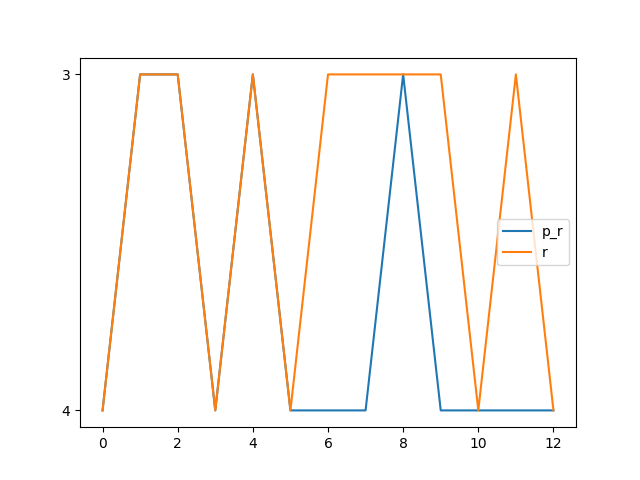
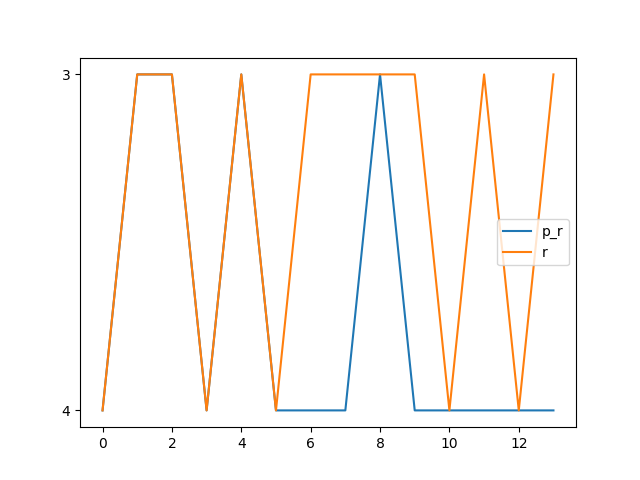
0x000D

diff --git a/benchmark.md b/benchmark.md
@@ -26,6 +26,8 @@ Synthesising 0x000B pexact:182 r=4 exact:216 r=3
 
 Synthesising 0x000C pexact:182 r=4 exact:320 r=4
 
+Synthesising 0x000D pexact:182 r=4 exact:216 r=3
+
 ![image1](benchmark_r.png?)
 
 ![image2](benchmark_s.png?)
